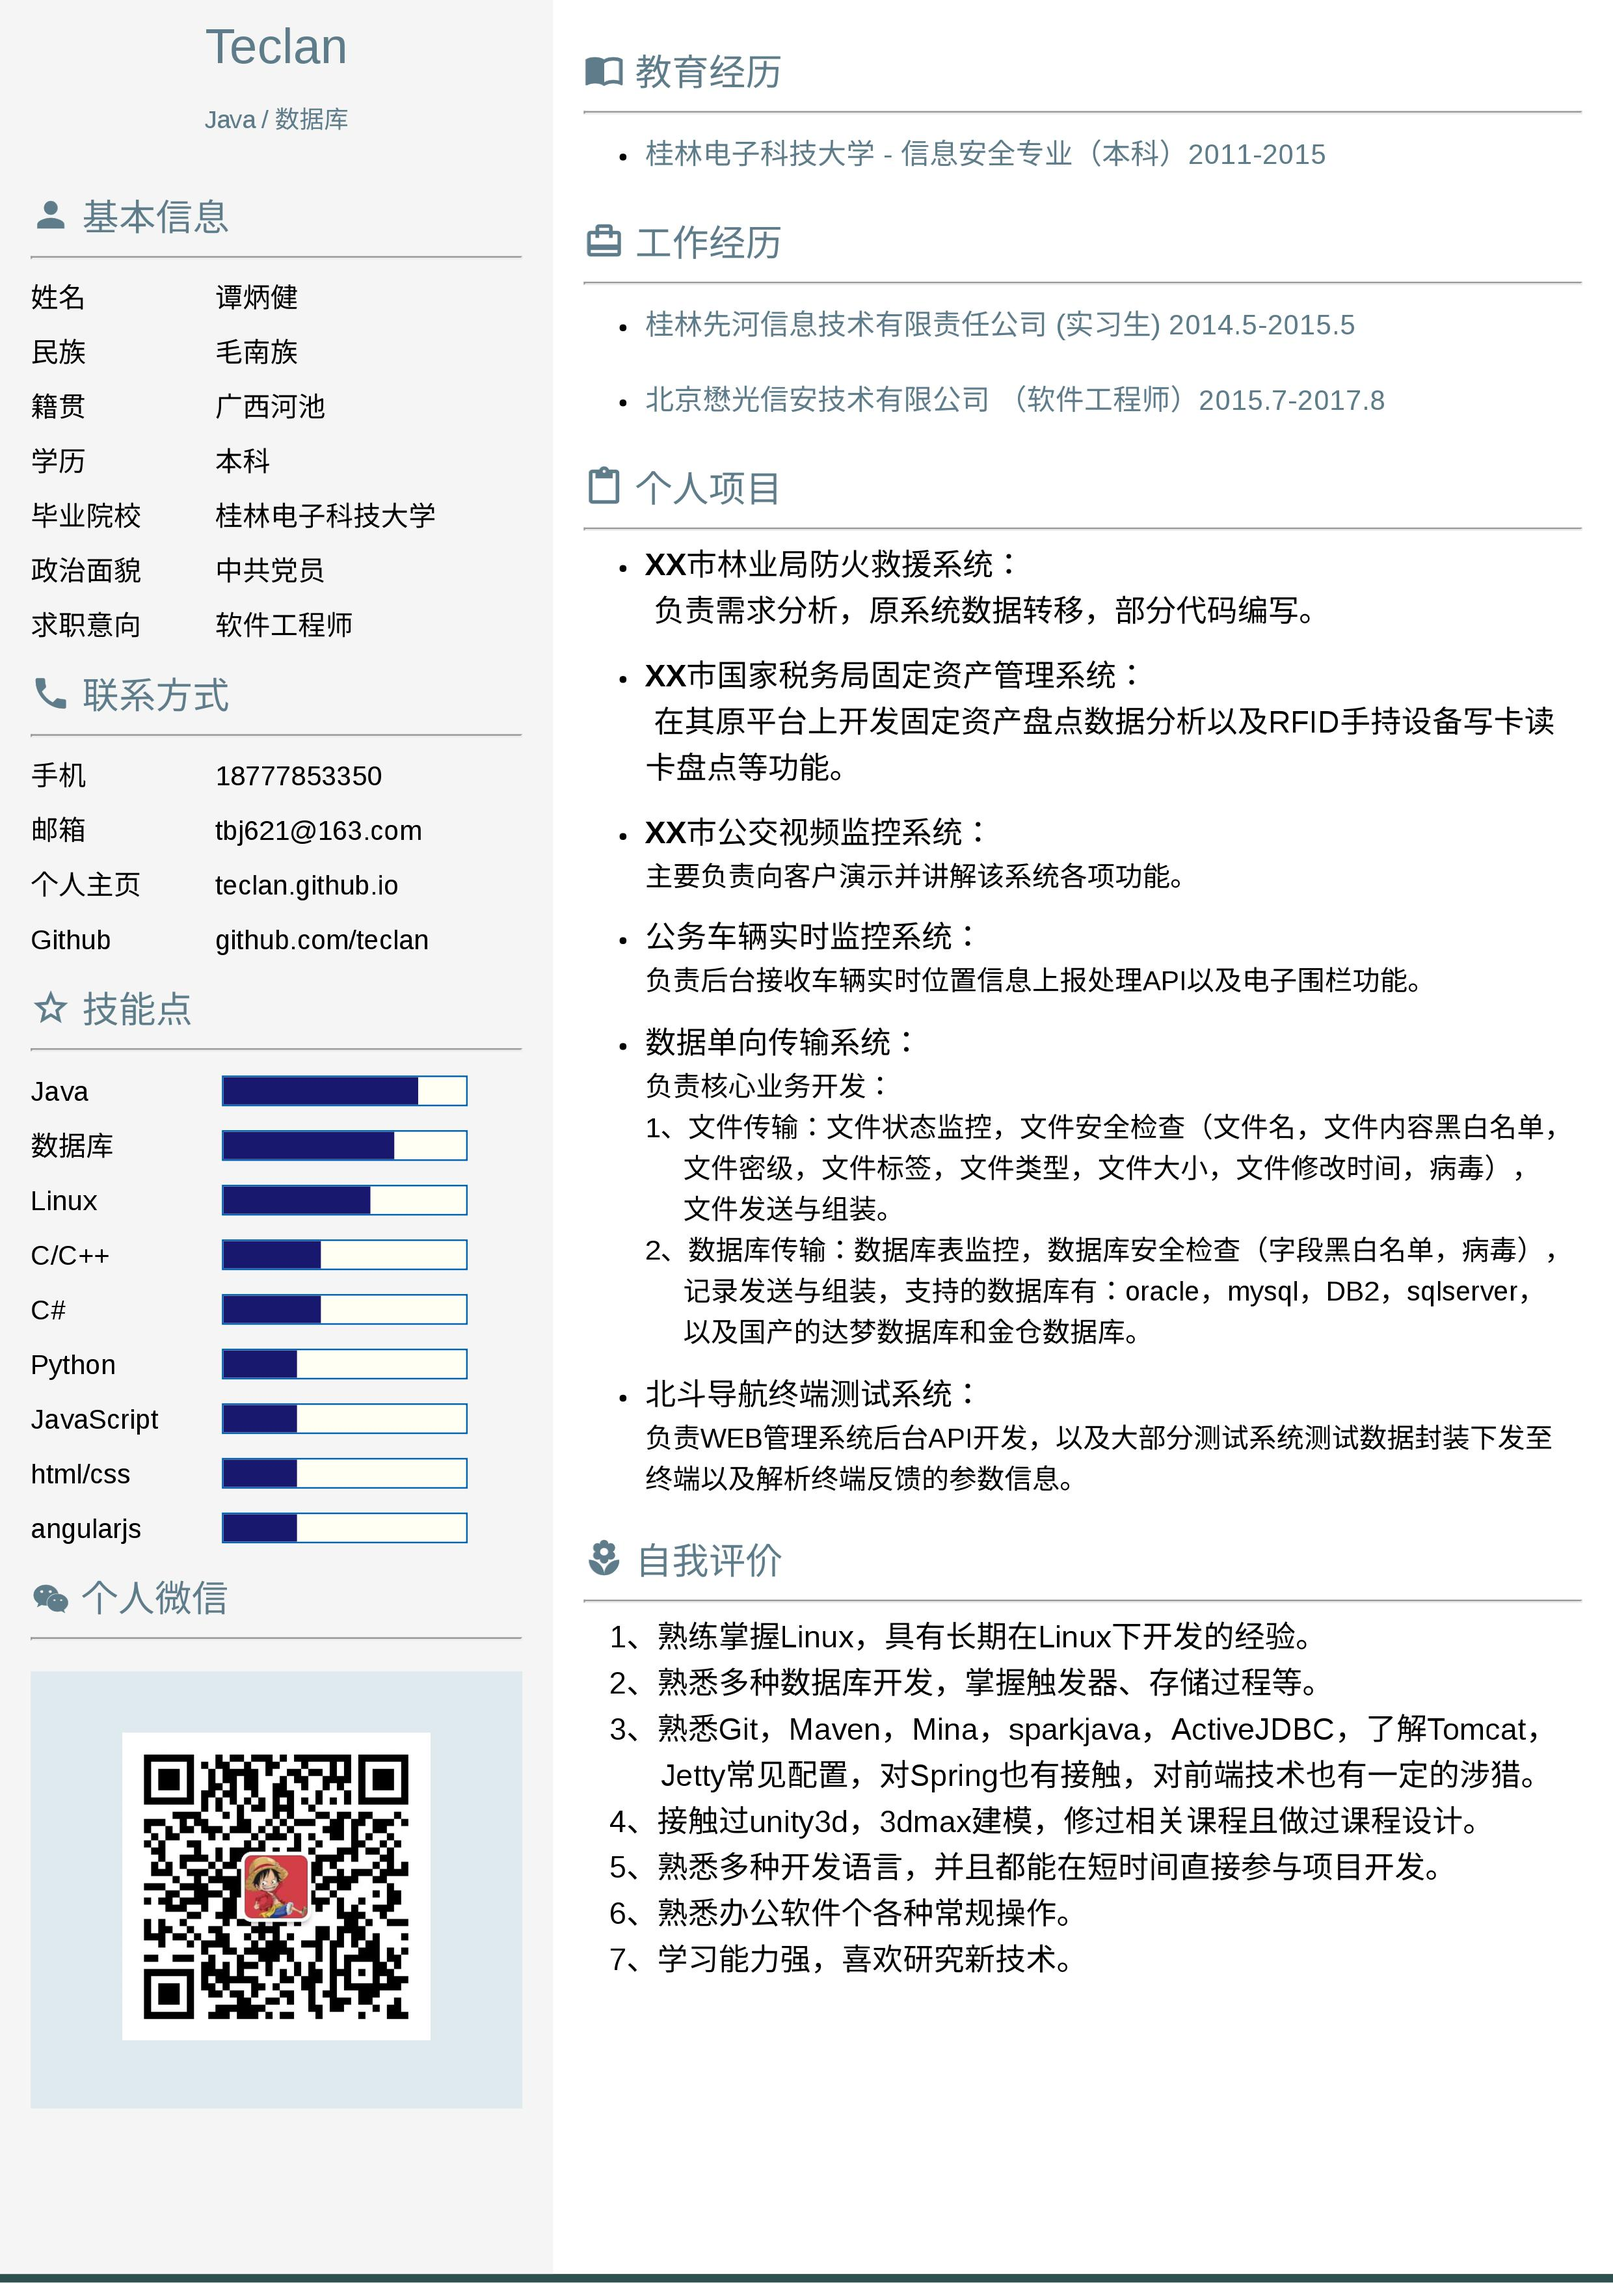
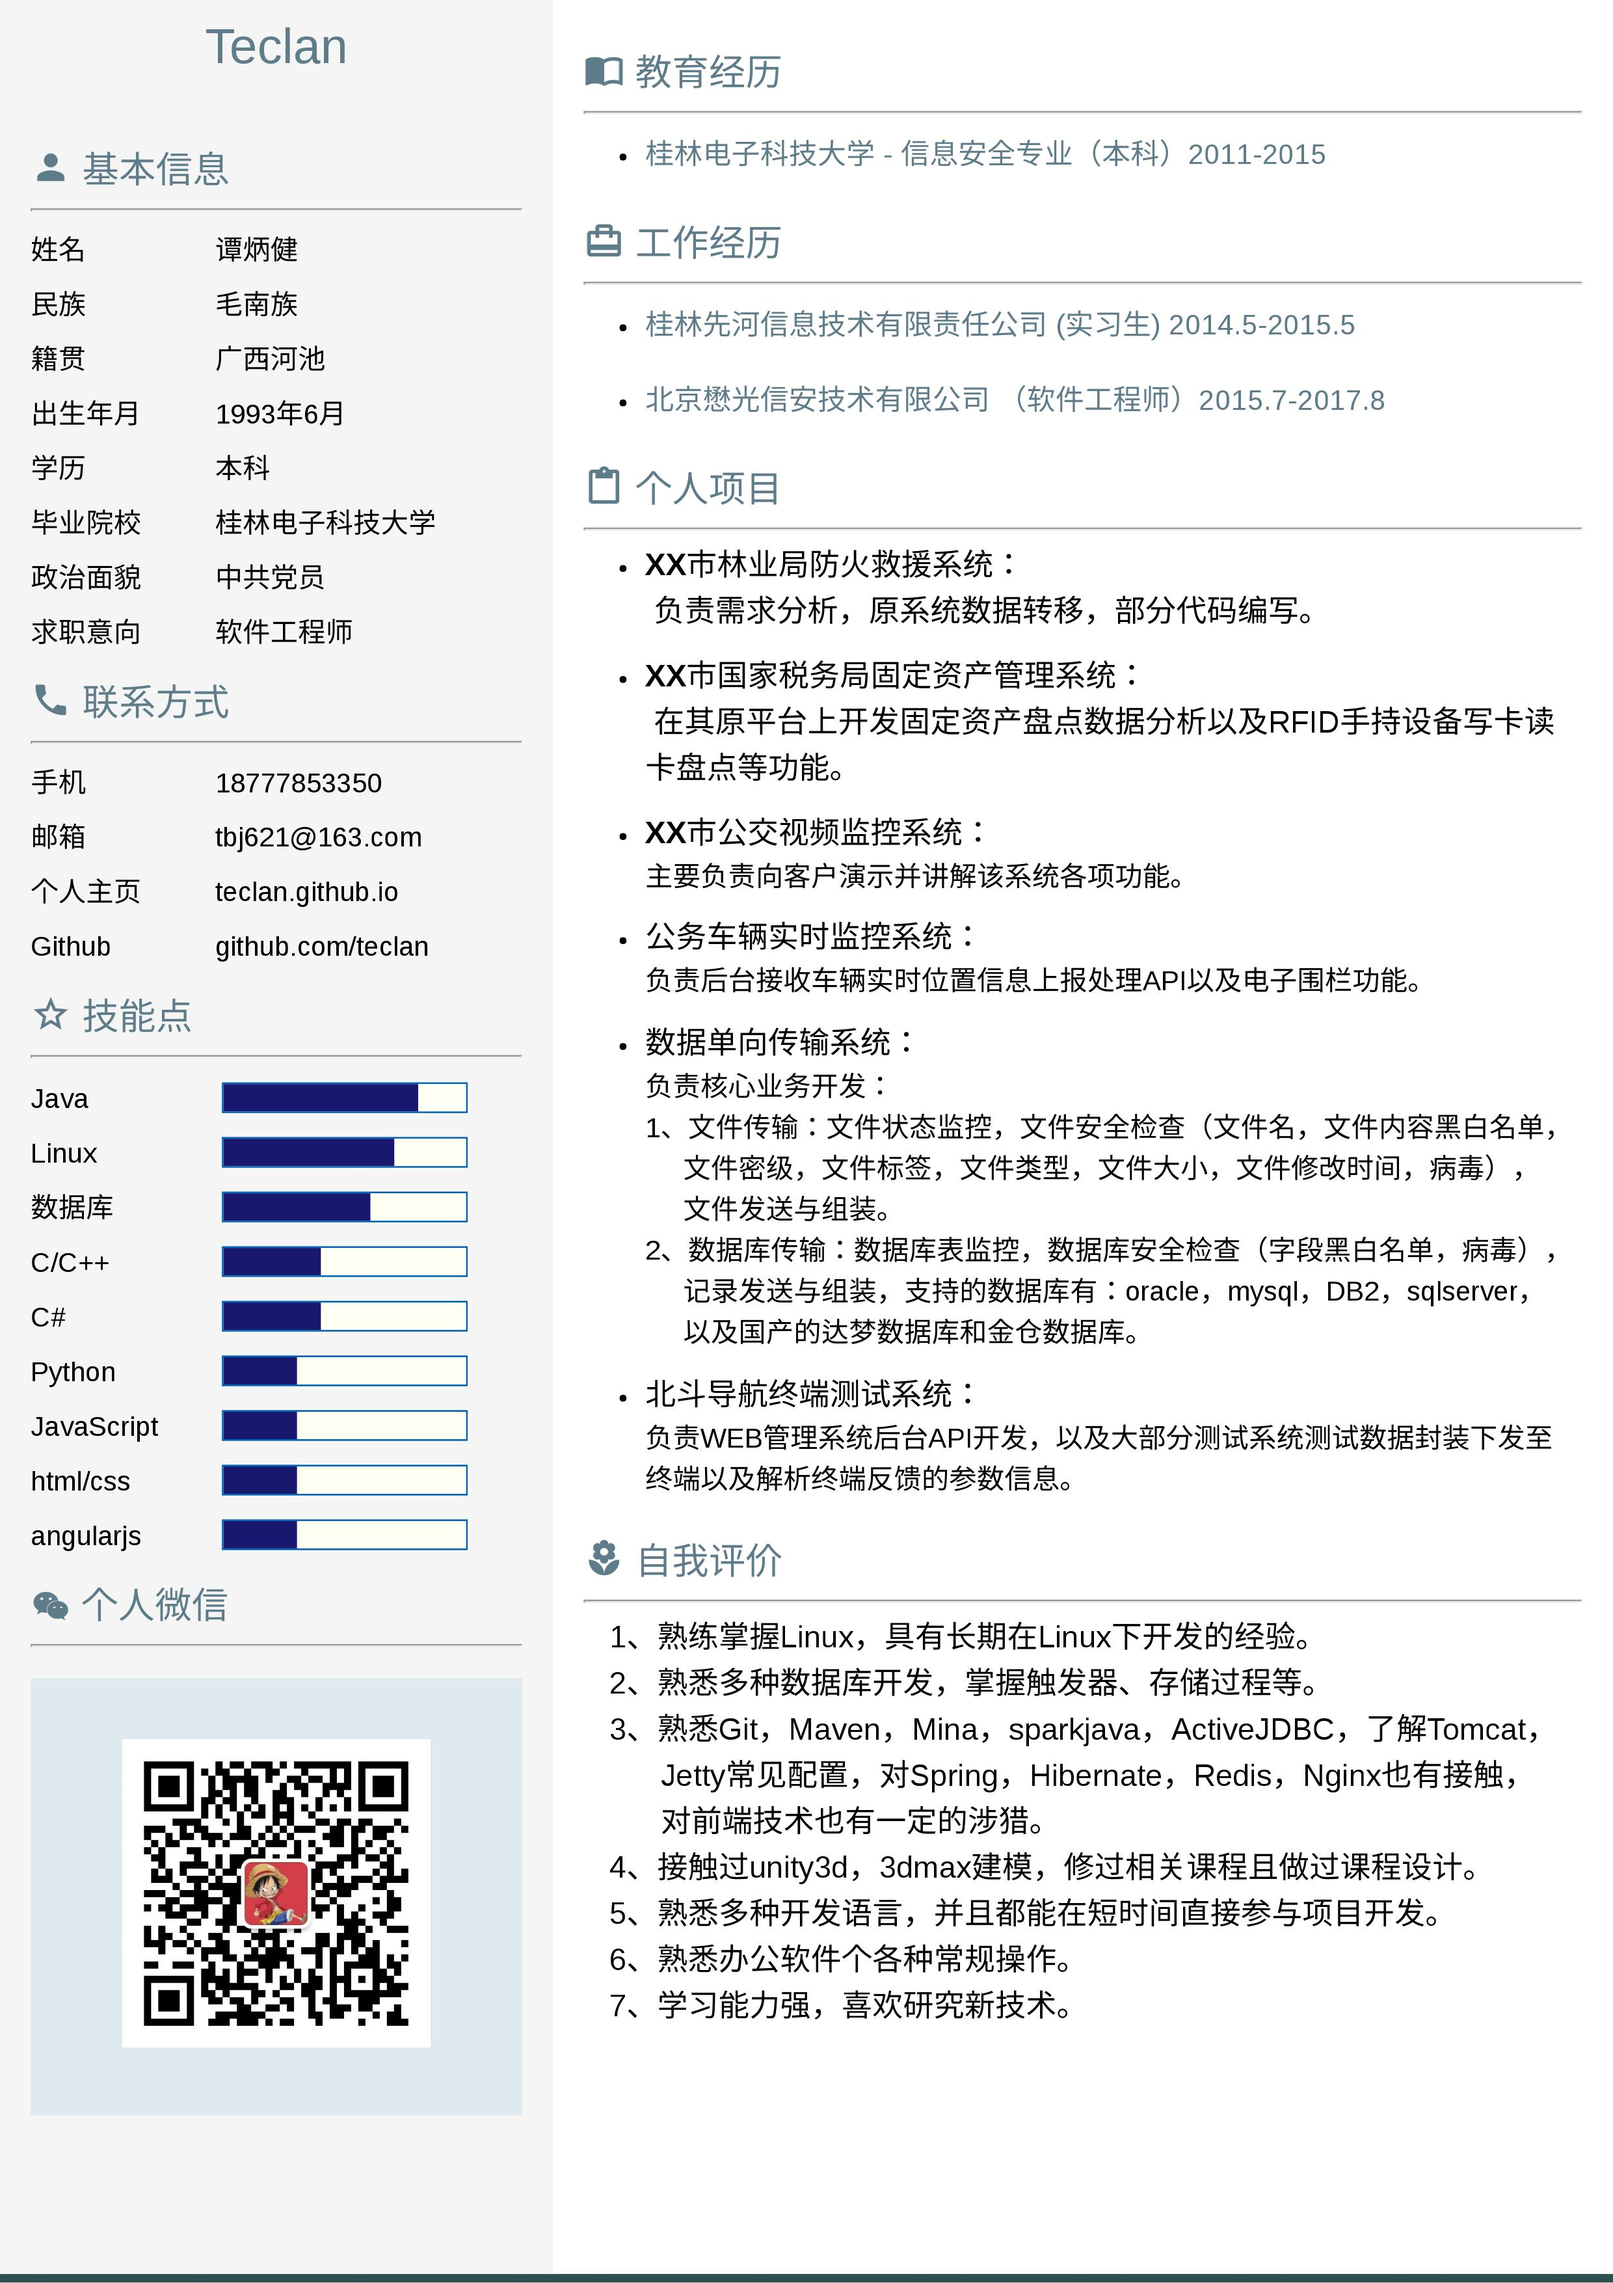
添加出生年月，自我评价添加Hibernate，Redis，nginx认识

diff --git a/index.html b/index.html
@@ -40,34 +40,23 @@
     <div class="container" id="cv">
         <div class="side">
             <div class="me">
-                <!-- <div class="portrait"></div> -->
                 <div class="remodal remodal-img" data-remodal-id="portrait-modal">
-                    <!-- <h3>请输入图片URL地址：</h3>
-                    <br/> -->
-                    <input type="text" id="avatar-url">
-                    <button data-remodal-action="confirm" class="remodal-confirm">确定</button>
                 </div>
                 <h1 id="username" >Teclan</h1>
-                <h4 id="persona-tag" >Java / 数据库 </h4>
+                <!-- <h4 id="persona-tag" >Java / 数据库 </h4> -->
             </div>
             <div class="profile info-unit">
                 <h2 class="info-header"><i class="iconfont icon-person"></i> <span class="info-title">基本信息</span></h2>
                 <hr>
                 <ul class="info-list">
-                    <li>
-                        <label class="left-label">姓名</label><span class="label-value">谭炳健</span></li>
-                    <li>
-                        <label class="left-label">民族</label><span class="label-value">毛南族</span></li>
-                    <li>
-                        <label class="left-label">籍贯</label><span class="label-value">广西河池</span></li>
-                    <li>
-                        <label class="left-label">学历</label><span class="label-value">本科</span></li>
-                    <li>
-                        <label class="left-label">毕业院校</label><span class="label-value">桂林电子科技大学</span></li>
-                    <li>
-                        <label class="left-label">政治面貌</label><span class="label-value">中共党员</span></li>
-                    <li>
-                        <label class="left-label">求职意向</label><span class="label-value">软件工程师</li>
+                    <li> <label class="left-label">姓名</label><span class="label-value">谭炳健</span></li>
+                    <li> <label class="left-label">民族</label><span class="label-value">毛南族</span></li>
+                    <li> <label class="left-label">籍贯</label><span class="label-value">广西河池</span></li>
+                    <li> <label class="left-label">出生年月</label><span class="label-value">1993年6月</span></li>
+                    <li> <label class="left-label">学历</label><span class="label-value">本科</span></li>
+                    <li> <label class="left-label">毕业院校</label><span class="label-value">桂林电子科技大学</span></li>
+                    <li> <label class="left-label">政治面貌</label><span class="label-value">中共党员</span></li>
+                    <li> <label class="left-label">求职意向</label><span class="label-value">软件工程师</li>
                 </ul>
             </div>
             <div class="contact info-unit">
@@ -93,11 +82,11 @@
                         <progress value="80" max="100"></progress>
                     </li>
                     <li>
-                        <label class="left-label">数据库</label>
+                        <label class="left-label">Linux</label>
                         <progress value="70" max="100"></progress>
                     </li>
                     <li>
-                        <label class="left-label">Linux</label>
+                        <label class="left-label">数据库</label>
                         <progress value="60" max="100"></progress>
                     </li>
                     <li>
@@ -246,7 +235,8 @@
                   &nbsp; &nbsp;1、熟练掌握Linux，具有长期在Linux下开发的经验。<br />
                   &nbsp; &nbsp;2、熟悉多种数据库开发，掌握触发器、存储过程等。<br />
                   &nbsp; &nbsp;3、熟悉Git，Maven，Mina，sparkjava，ActiveJDBC，了解Tomcat，
-                  &nbsp; &nbsp; &nbsp;&nbsp; &nbsp; &nbsp;&nbsp;Jetty常见配置，对Spring也有接触，对前端技术也有一定的涉猎。<br />
+                  &nbsp; &nbsp; &nbsp;&nbsp; &nbsp; &nbsp;&nbsp;Jetty常见配置，对Spring，Hibernate，Redis，Nginx也有接触，
+                  &nbsp; &nbsp; &nbsp; &nbsp;&nbsp; &nbsp; &nbsp;&nbsp;对前端技术也有一定的涉猎。<br />
                   &nbsp; &nbsp;4、接触过unity3d，3dmax建模，修过相关课程且做过课程设计。<br />
                   &nbsp; &nbsp;5、熟悉多种开发语言，并且都能在短时间直接参与项目开发。<br />
                   &nbsp; &nbsp;6、熟悉办公软件个各种常规操作。<br />
